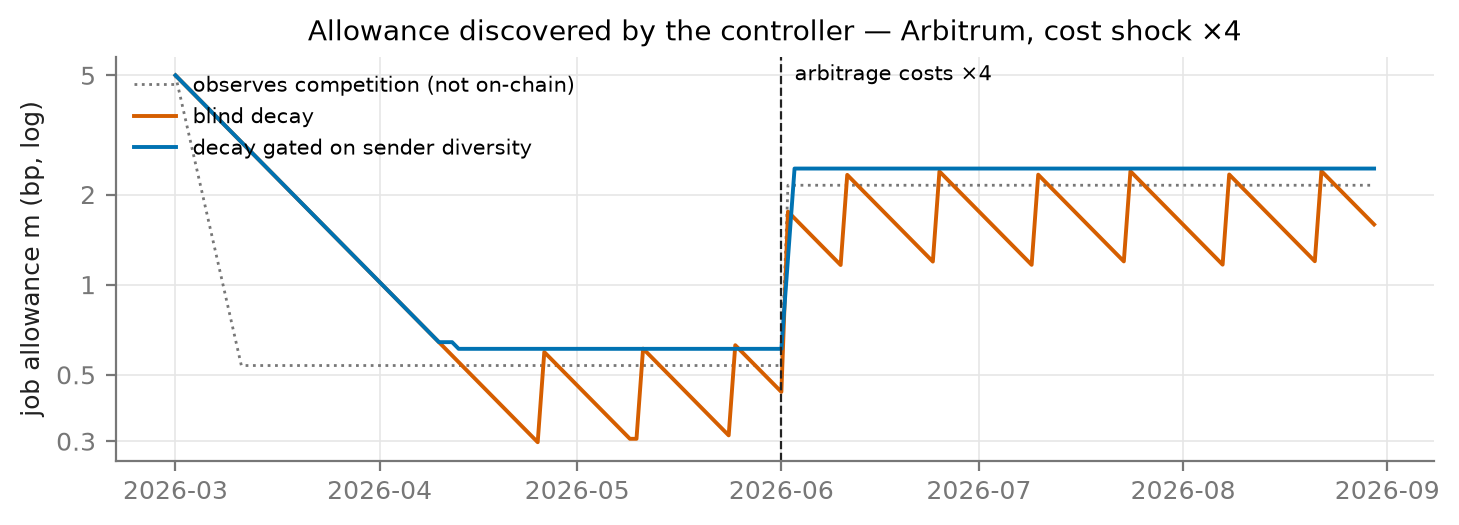
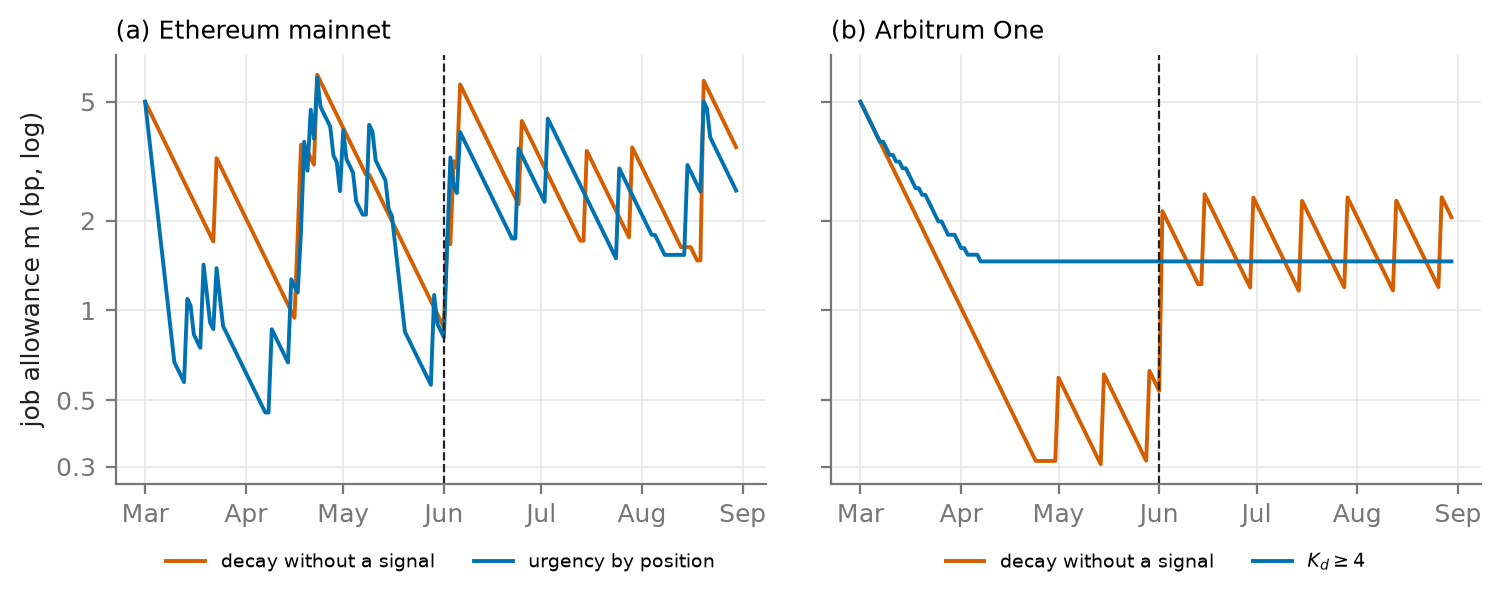
docs: paper redraws allowance paths with final controllers and separates arbitrage gas from settlement gas
- Improved function figure of allowance paths with urgency by position on mainnet and the K_d >= 4 rule on Arbitrum
- Added function generating daily allowance paths of the final controllers
- Fixed documentation of why arbitrage gas is folded into the allowance while settlement gas needs no exchange rate, §4.3 and Appendix F.2

diff --git a/pipeline/figures.py b/pipeline/figures.py
@@ -14,6 +14,7 @@ from pathlib import Path
 import matplotlib
 matplotlib.use("Agg")
 import matplotlib.pyplot as plt
+import matplotlib.dates as mdates
 import numpy as np
 import pandas as pd
 
@@ -170,26 +171,25 @@ def recapture_frontier() -> None:
 
 
 def controller_paths() -> None:
-    runs = j(R / "arbitrum" / "study_i" / "metrics.json")["runs"]
-    pick = {"ctl_feasible": ("blind decay", C[3]), "ctl_div": ("decay gated on sender diversity", C[0]),
-            "ctl_fast": ("observes competition (not on-chain)", MUTED)}
-    fig, ax = plt.subplots(figsize=(7.4, 2.7))
-    for r in runs:
-        if r["rule"] == "marginal_cap" and r["scenario"] == "costs_x4" and r["phase"] == "open" and r["param"] in pick:
-            d = np.array(r["daily"], dtype=float)
-            t = pd.to_datetime(d[:, 0] * 86400, unit="s")
-            lab, col = pick[r["param"]]
-            ax.plot(t, d[:, 1], color=col, lw=1.4 if r["param"] != "ctl_fast" else 1.0, label=lab,
-                    ls="-" if r["param"] != "ctl_fast" else ":")
-    ax.axvline(pd.Timestamp("2026-06-01"), color=INK, lw=0.8, ls="--")
-    ax.text(pd.Timestamp("2026-06-03"), ax.get_ylim()[1] * 0.92, "arbitrage costs ×4", fontsize=7.5)
-    ax.set_yscale("log"); ax.set_ylabel("job allowance m (bp, log)")
     from matplotlib.ticker import FixedLocator, FuncFormatter, NullLocator
-    ax.yaxis.set_major_locator(FixedLocator([0.3, 0.5, 1, 2, 5]))
-    ax.yaxis.set_minor_locator(NullLocator())
-    ax.yaxis.set_major_formatter(FuncFormatter(lambda v, _: f"{v:g}"))
-    ax.set_title("Allowance discovered by the controller — Arbitrum, cost shock ×4")
-    ax.legend(loc="upper left", fontsize=7.5)
+    fig, axes = plt.subplots(1, 2, figsize=(7.6, 3.1), sharey=True)
+    styles = [("no signal", "decay without a signal", C[3]), ("urgency by position", "urgency by position", C[0]),
+              ("blind decay", "decay without a signal", C[3]), ("K_d >= 4", r"$K_d \geq 4$", C[0])]
+    for ax, (title, base) in zip(axes, (("(a) Ethereum mainnet", R), ("(b) Arbitrum One", R / "arbitrum"))):
+        paths = j(base / "study_i" / "paths.json")["paths"]
+        for key, lab, col in styles:
+            if key in paths:
+                d = np.array(paths[key], dtype=float)
+                ax.plot(pd.to_datetime(d[:, 0] * 86400, unit="s"), d[:, 1], color=col, lw=1.4, label=lab)
+        ax.axvline(pd.Timestamp("2026-06-01"), color=INK, lw=0.8, ls="--")
+        ax.set_title(title, loc="left", fontsize=9)
+        ax.set_yscale("log")
+        ax.yaxis.set_major_locator(FixedLocator([0.3, 0.5, 1, 2, 5]))
+        ax.yaxis.set_minor_locator(NullLocator())
+        ax.yaxis.set_major_formatter(FuncFormatter(lambda v, _: f"{v:g}"))
+        ax.xaxis.set_major_formatter(mdates.DateFormatter("%b"))
+        ax.legend(loc="upper center", bbox_to_anchor=(0.5, -0.12), ncol=2, fontsize=7, frameon=False)
+    axes[0].set_ylabel("job allowance m (bp, log)")
     save(fig, "fig_controller_paths")
 
 

diff --git a/pipeline/study_i_paths.py b/pipeline/study_i_paths.py
@@ -1,0 +1,31 @@
+"""Study I: daily allowance paths of the final controllers for Figure 9 (paper §5.4).
+
+Cost shock ×4 from June. Mainnet: decay without a signal against urgency measured by block position,
+both under the position model; Arbitrum: blind decay against the K_d >= 4 sender rule.
+
+    AMMBRO_CHAIN=<chain> uv run python -m pipeline.study_i_paths → results/[<chain>/]study_i/paths.json
+"""
+from __future__ import annotations
+
+import json
+
+from . import study_i as I
+from .chains import ACTIVE
+from .study_i_position import POS
+
+
+def main() -> dict:
+    if ACTIVE.ordering == "fcfs":
+        ctls, st = {"blind decay": "ctl_feasible", "K_d >= 4": "ctl_red4"}, {}
+    else:
+        ctls, st = {"no signal": "ctl_feasible", "urgency by position": "ctl_urgm"}, {"position_model": POS}
+    runs = [("marginal_cap", c, "costs_x4", 0.0, "open", False, 0.0, dict(st)) for c in ctls.values()]
+    res = I.main(runs, workers=2)
+    out = {"chain": ACTIVE.name, "scenario": "costs_x4",
+           "paths": {k: [[d[0], d[1]] for d in r["daily"]] for k, r in zip(ctls, res)}}
+    (I.OUT / "paths.json").write_text(json.dumps(out))
+    return out
+
+
+if __name__ == "__main__":
+    main()
